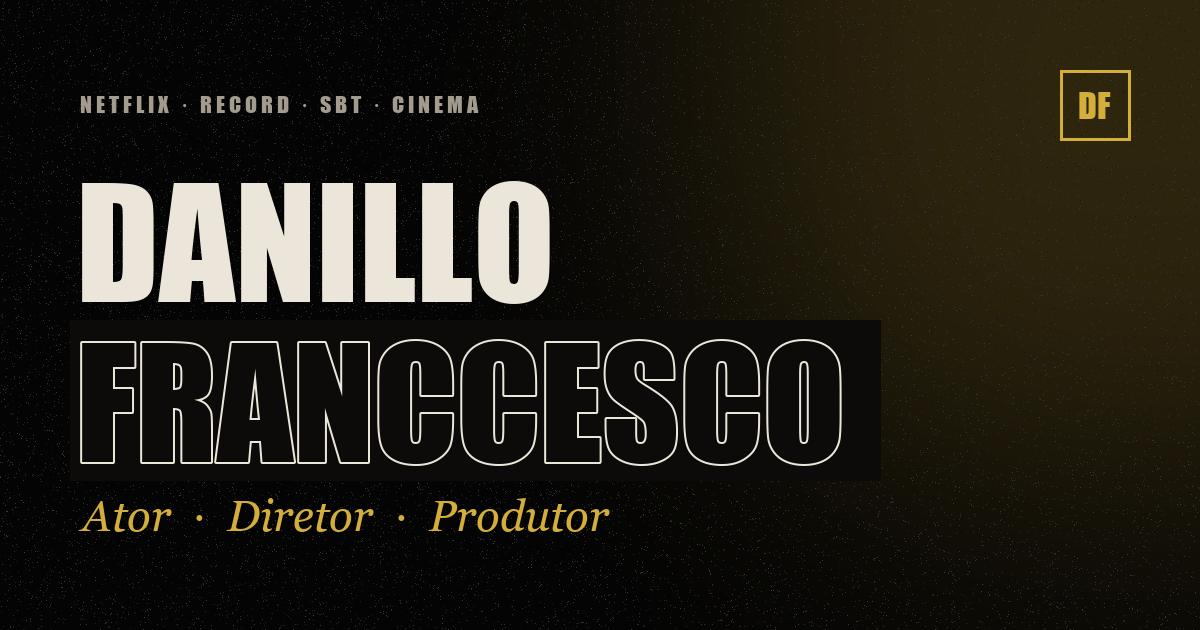
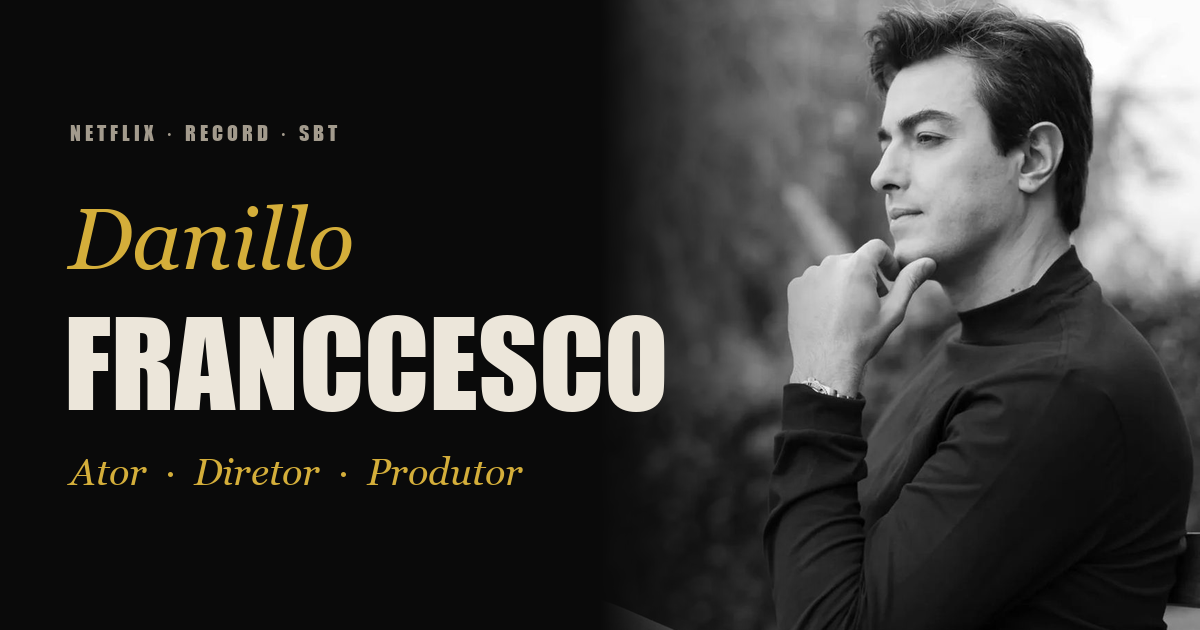
Fotos do Danillo no site e contagem de 2 s por número
Retrato P&B na seção Sobre, galeria de bastidores com quatro fotos,
foto no card de A Vida de Jó, avatar na página de links e nova imagem
de compartilhamento. Contagem 3-2-1 com 2 segundos por número.

diff --git a/css/style.css b/css/style.css
@@ -130,7 +130,7 @@ button { font: inherit; color: inherit; }
 .leader-sweep {
   position: absolute; inset: 0; border-radius: 50%;
   background: conic-gradient(rgba(236,230,218,.18) 0deg, transparent 0deg);
-  animation: sweep 1.3s linear infinite;
+  animation: sweep 2s linear infinite;
 }
 @keyframes sweep {
   from { background: conic-gradient(rgba(236,230,218,.18) 0deg, transparent 0deg); }
@@ -324,18 +324,22 @@ section { position: relative; padding: clamp(80px, 12vw, 150px) 0; }
   position: relative; aspect-ratio: 4 / 5; background: var(--bg-3);
   border: 1px solid var(--line); overflow: hidden; display: grid; place-items: center;
 }
+.portrait-img {
+  position: absolute; inset: 0; width: 100%; height: 100%; object-fit: cover; object-position: 60% 30%;
+  filter: contrast(1.05);
+}
 .portrait-mono {
   font-family: var(--display); font-size: clamp(120px, 20vw, 240px); line-height: 1;
   color: transparent; -webkit-text-stroke: 1px rgba(212,174,58,.6);
 }
 .portrait-cap {
-  position: absolute; left: 0; right: 0; bottom: 0; padding: 16px 20px;
+  position: absolute; left: 0; right: 0; bottom: 0; z-index: 1; padding: 16px 20px;
   display: flex; justify-content: space-between; font-size: 11px; letter-spacing: .25em; text-transform: uppercase;
   color: var(--muted); border-top: 1px solid var(--line); background: rgba(var(--bg-rgb),.6);
 }
 .portrait-cap a { color: var(--gold); text-decoration: none; }
 .perfs {
-  position: absolute; top: 0; bottom: 0; width: 18px;
+  position: absolute; top: 0; bottom: 0; width: 18px; z-index: 1;
   background: repeating-linear-gradient(180deg, transparent 0 10px, rgba(236,230,218,.12) 10px 22px);
   background-size: 8px 22px; background-repeat: repeat-y; background-position: center;
 }
@@ -393,6 +397,17 @@ section { position: relative; padding: clamp(80px, 12vw, 150px) 0; }
 }
 .card:hover .card-play i { background: var(--gold-fill); color: #000; }
 .card.hide { display: none; }
+.card.has-img { color: var(--film-ink); border-color: rgba(212,174,58,.35); }
+.card.has-img .card-outlet, .card.has-img .card-top { color: rgba(236,230,218,.75); }
+.card.has-img .card-type { color: var(--gold-fill); }
+.card-bg {
+  position: absolute !important; inset: 0; z-index: 0 !important; width: 100%; height: 100%;
+  object-fit: cover; object-position: 50% 15%; filter: grayscale(.4) brightness(.55);
+  transition: transform 1.2s var(--ease), filter .6s;
+}
+.card.has-img::before { z-index: 1; background: linear-gradient(180deg, rgba(0,0,0,.15) 20%, rgba(0,0,0,.85) 100%); opacity: 1; }
+.card.has-img:hover .card-bg { transform: scale(1.05); filter: grayscale(0) brightness(.6); }
+.card.has-img > *:not(.card-bg) { z-index: 2; }
 
 /* ---------- Destaque ---------- */
 .feature { overflow: hidden; }
@@ -488,18 +503,25 @@ section { position: relative; padding: clamp(80px, 12vw, 150px) 0; }
   animation: shine 6s linear infinite;
 }
 @keyframes shine { to { background-position: -200% 0; } }
-.insta-frames { display: flex; justify-content: center; gap: 12px; margin: 0 auto 36px; max-width: 760px; }
-.insta-frames span {
-  flex: 1; aspect-ratio: 9 / 16; border: 1px solid var(--line); background: var(--bg);
-  display: grid; place-items: center; font-family: var(--display); font-size: 22px; color: var(--muted);
-  letter-spacing: .1em; position: relative; overflow: hidden;
+.insta-frames {
+  display: grid; grid-template-columns: repeat(4, 1fr); gap: 14px;
+  max-width: 980px; margin: 0 auto 40px; text-align: left;
 }
-.insta-frames span::after {
-  content: ""; position: absolute; inset: 0;
-  background: radial-gradient(ellipse at 50% 30%, var(--gold-soft), transparent 70%);
+.insta-frames figure {
+  position: relative; margin: 0; aspect-ratio: 3 / 4; overflow: hidden;
+  border: 1px solid var(--line); background: #000;
 }
-.insta-frames span:nth-child(2) { transform: translateY(-14px); }
-.insta-frames span:nth-child(4) { transform: translateY(-14px); }
+.insta-frames figure:nth-child(even) { transform: translateY(-18px); }
+.insta-frames img {
+  width: 100%; height: 100%; object-fit: cover; object-position: 50% 20%;
+  filter: grayscale(.35) contrast(1.05); transition: filter .6s, transform 1.2s var(--ease);
+}
+.insta-frames figure:hover img { filter: none; transform: scale(1.04); }
+.insta-frames figcaption {
+  position: absolute; left: 0; right: 0; bottom: 0; padding: 26px 14px 12px;
+  background: linear-gradient(transparent, rgba(0,0,0,.8)); color: var(--film-ink);
+  font-family: var(--display); font-size: 20px; letter-spacing: .08em;
+}
 
 /* ---------- Casting (claquete) ---------- */
 .slate { max-width: 900px; margin: 44px auto 0; border: 1px solid var(--text); background: var(--bg-2); }
@@ -677,7 +699,7 @@ section { position: relative; padding: clamp(80px, 12vw, 150px) 0; }
   .slate-cell.wide { grid-column: span 2; }
   .credit { grid-template-columns: 1fr; gap: 2px; text-align: center; }
   .credit dt, .credit dd { text-align: center; }
-  .insta-frames span:nth-child(n+4) { display: none; }
+  .insta-frames { grid-template-columns: 1fr 1fr; gap: 10px; }
   .chat { right: 12px; bottom: 12px; }
   .chat-fab { right: 14px; bottom: 14px; }
   .chat-fab .fab-label { display: none; }
@@ -700,6 +722,7 @@ section { position: relative; padding: clamp(80px, 12vw, 150px) 0; }
   border: 1px solid var(--gold); display: grid; place-items: center; position: relative;
   font-family: var(--display); font-size: 46px; color: var(--gold);
 }
+.bio-mono img { width: 100%; height: 100%; border-radius: 50%; object-fit: cover; }
 .bio-mono::after { content: ""; position: absolute; inset: -8px; border-radius: 50%; border: 1px dashed rgba(212,174,58,.35); animation: spin 30s linear infinite; }
 @keyframes spin { to { transform: rotate(360deg); } }
 .bio h1 { font-family: var(--display); font-weight: 400; font-size: 48px; line-height: 1; margin: 0 0 8px; letter-spacing: .03em; }

diff --git a/index.html b/index.html
@@ -134,7 +134,10 @@
           </div>
           <figure class="portrait reveal" style="margin:0">
             <div class="perfs l"></div><div class="perfs r"></div>
-            <span class="portrait-mono" aria-hidden="true">DF</span>
+            <picture>
+              <source srcset="assets/danillo-retrato.webp" type="image/webp">
+              <img class="portrait-img" src="assets/danillo-retrato.jpg" width="1000" height="1293" alt="Retrato de Danillo Franccesco em preto e branco, de perfil" data-i18n-attr="alt:img.portrait" loading="lazy" decoding="async">
+            </picture>
             <figcaption class="portrait-cap"><span>Take 01</span><a href="https://www.instagram.com/danillofranccesco/" target="_blank" rel="noopener">@danillofranccesco</a></figcaption>
           </figure>
         </div>
@@ -251,8 +254,23 @@
       <div class="wrap reveal">
         <p class="kicker" data-i18n="insta.kicker">Cena 06 · Bastidores</p>
         <a class="insta-handle" href="https://www.instagram.com/danillofranccesco/" target="_blank" rel="noopener">@danillofranccesco</a>
-        <div class="insta-frames" aria-hidden="true">
-          <span data-i18n="insta.f1">Set</span><span data-i18n="insta.f2">Reels</span><span data-i18n="insta.f3">Making of</span><span data-i18n="insta.f4">Estreias</span><span data-i18n="insta.f5">Vida</span>
+        <div class="insta-frames">
+          <figure>
+            <img src="assets/bastidores-maquiagem.jpg" width="800" height="1035" alt="Danillo sendo maquiado no set de A Vida de Jó" data-i18n-attr="alt:img.makeup" loading="lazy" decoding="async">
+            <figcaption data-i18n="insta.f3">Making of</figcaption>
+          </figure>
+          <figure>
+            <img src="assets/filho-de-deus-figurino.jpg" width="800" height="1057" alt="Danillo com o figurino de Filho de Deus em A Vida de Jó" data-i18n-attr="alt:img.costume" loading="lazy" decoding="async">
+            <figcaption data-i18n="insta.f1">Set</figcaption>
+          </figure>
+          <figure>
+            <img src="assets/filho-de-deus-close.jpg" width="800" height="1063" alt="Close de Danillo caracterizado como Filho de Deus" data-i18n-attr="alt:img.close" loading="lazy" decoding="async">
+            <figcaption>A Vida de Jó</figcaption>
+          </figure>
+          <figure>
+            <img src="assets/danillo-ensaio.jpg" width="800" height="1035" alt="Danillo Franccesco em ensaio fotográfico ao ar livre" data-i18n-attr="alt:img.shoot" loading="lazy" decoding="async">
+            <figcaption data-i18n="insta.f5">Ensaio</figcaption>
+          </figure>
         </div>
         <a class="btn btn-gold" href="https://www.instagram.com/danillofranccesco/" target="_blank" rel="noopener">
           <svg aria-hidden="true"><use href="#i-insta"/></svg> <span data-i18n="insta.btn">Seguir no Instagram</span>

diff --git a/js/main.js b/js/main.js
@@ -32,7 +32,7 @@
       n -= 1;
       if (n <= 0) { clearInterval(timer); endLeader(); return; }
       num.textContent = n;
-    }, 1300);
+    }, 2000);
     leader.addEventListener("click", function () { clearInterval(timer); endLeader(); });
     document.addEventListener("keydown", function once() {
       clearInterval(timer); endLeader(); document.removeEventListener("keydown", once);
@@ -88,7 +88,7 @@
       var title = pick(w.title);
       var clickable = !!(w.youtube || w.link);
       var el = document.createElement(clickable ? "button" : "article");
-      el.className = "card reveal in";
+      el.className = "card reveal in" + (w.image ? " has-img" : "");
       el.dataset.type = w.type;
       el.style.setProperty("--tone", TONE[w.type] || TONE.tv);
       if (currentFilter !== "all" && w.type !== currentFilter) el.classList.add("hide");
@@ -98,6 +98,7 @@
         el.setAttribute("aria-label", t(w.youtube ? "aria.watch" : "aria.open") + title);
       }
       el.innerHTML =
+        (w.image ? '<img class="card-bg" src="' + esc(w.image) + '" alt="" loading="lazy" decoding="async">' : "") +
         '<div class="card-top"><span class="card-type">' + esc(t("type." + w.type)) + "</span><span>" + esc(w.year) + "</span></div>" +
         '<h3 class="card-title">' + esc(title) + "</h3>" +
         '<p class="card-role">' + esc(pick(w.role)) + "</p>" +

diff --git a/js/i18n.js b/js/i18n.js
@@ -101,7 +101,12 @@
       "insta.f2": "Reels",
       "insta.f3": "Making of",
       "insta.f4": "Premieres",
-      "insta.f5": "Life",
+      "insta.f5": "Photoshoot",
+      "img.portrait": "Black and white profile portrait of Danillo Franccesco",
+      "img.makeup": "Danillo getting makeup on the set of A Vida de Jó",
+      "img.costume": "Danillo in the Son of God costume for A Vida de Jó",
+      "img.close": "Close-up of Danillo as the Son of God",
+      "img.shoot": "Danillo Franccesco in an outdoor photoshoot",
       "insta.btn": "Follow on Instagram",
 
       "casting.kicker": "Scene 07 · For casting directors",
@@ -241,7 +246,12 @@
       "insta.f2": "Reels",
       "insta.f3": "Making of",
       "insta.f4": "Estrenos",
-      "insta.f5": "Vida",
+      "insta.f5": "Sesión de fotos",
+      "img.portrait": "Retrato de perfil en blanco y negro de Danillo Franccesco",
+      "img.makeup": "Danillo maquillándose en el set de A Vida de Jó",
+      "img.costume": "Danillo con el vestuario del Hijo de Dios en A Vida de Jó",
+      "img.close": "Primer plano de Danillo caracterizado como el Hijo de Dios",
+      "img.shoot": "Danillo Franccesco en una sesión de fotos al aire libre",
       "insta.btn": "Seguir en Instagram",
 
       "casting.kicker": "Escena 07 · Para directores de casting",

diff --git a/data/works.js b/data/works.js
@@ -5,6 +5,7 @@
  *  - title, role, outlet: texto simples ou { pt, en, es } para traduzir
  *  - youtube: ID do vídeo no YouTube (o trecho depois de "watch?v=") ou "" se não houver
  *  - link: página externa (opcional)
+ *  - image: foto de fundo do card (opcional), ex.: "assets/minha-foto.jpg"
  */
 window.WORKS = [
   {
@@ -13,6 +14,7 @@ window.WORKS = [
     type: "tv",
     role: { pt: "Filho de Deus", en: "Son of God", es: "Hijo de Dios" },
     outlet: "Record",
+    image: "assets/filho-de-deus-close.jpg",
     youtube: "",
     link: ""
   },

diff --git a/links.html b/links.html
@@ -42,7 +42,7 @@
 
   <main class="bio-page">
     <div class="bio">
-      <div class="bio-mono" aria-hidden="true">DF</div>
+      <div class="bio-mono"><img src="assets/avatar.jpg" width="320" height="320" alt="Danillo Franccesco"></div>
       <h1>Danillo Franccesco</h1>
       <p class="bio-roles" data-i18n="roles">Ator · Diretor · Produtor</p>
       <p class="bio-sub" data-i18n="bio.sub">Netflix · Record · SBT · Cinema</p>
